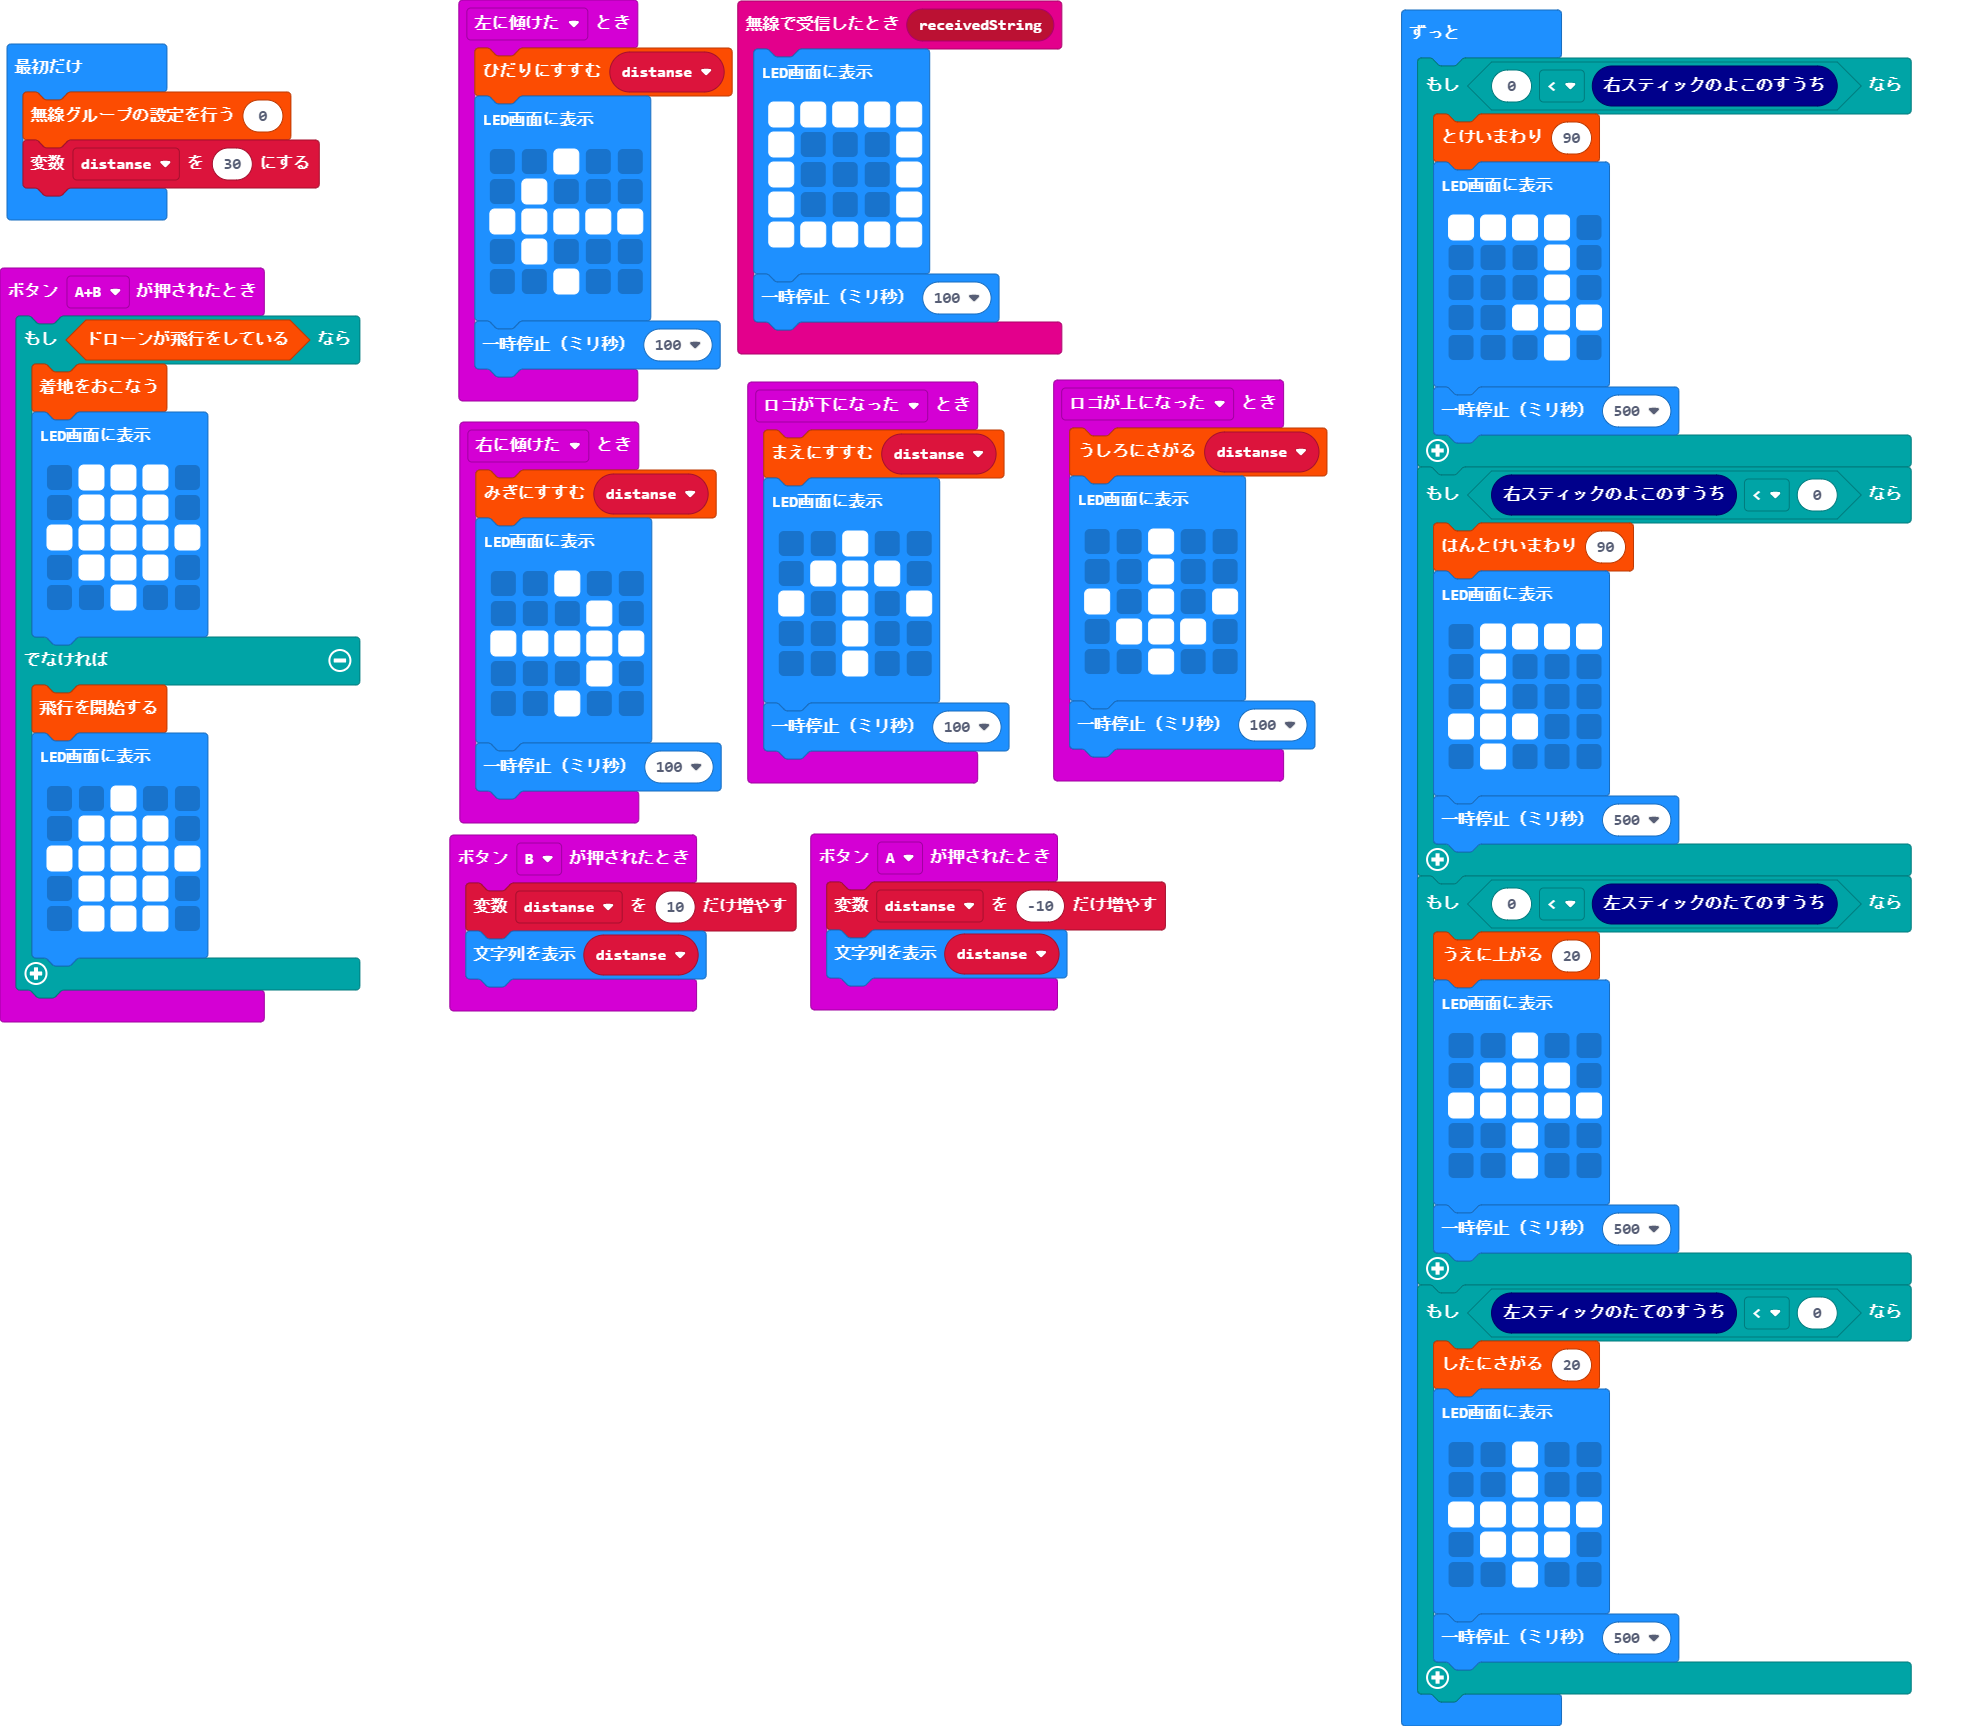
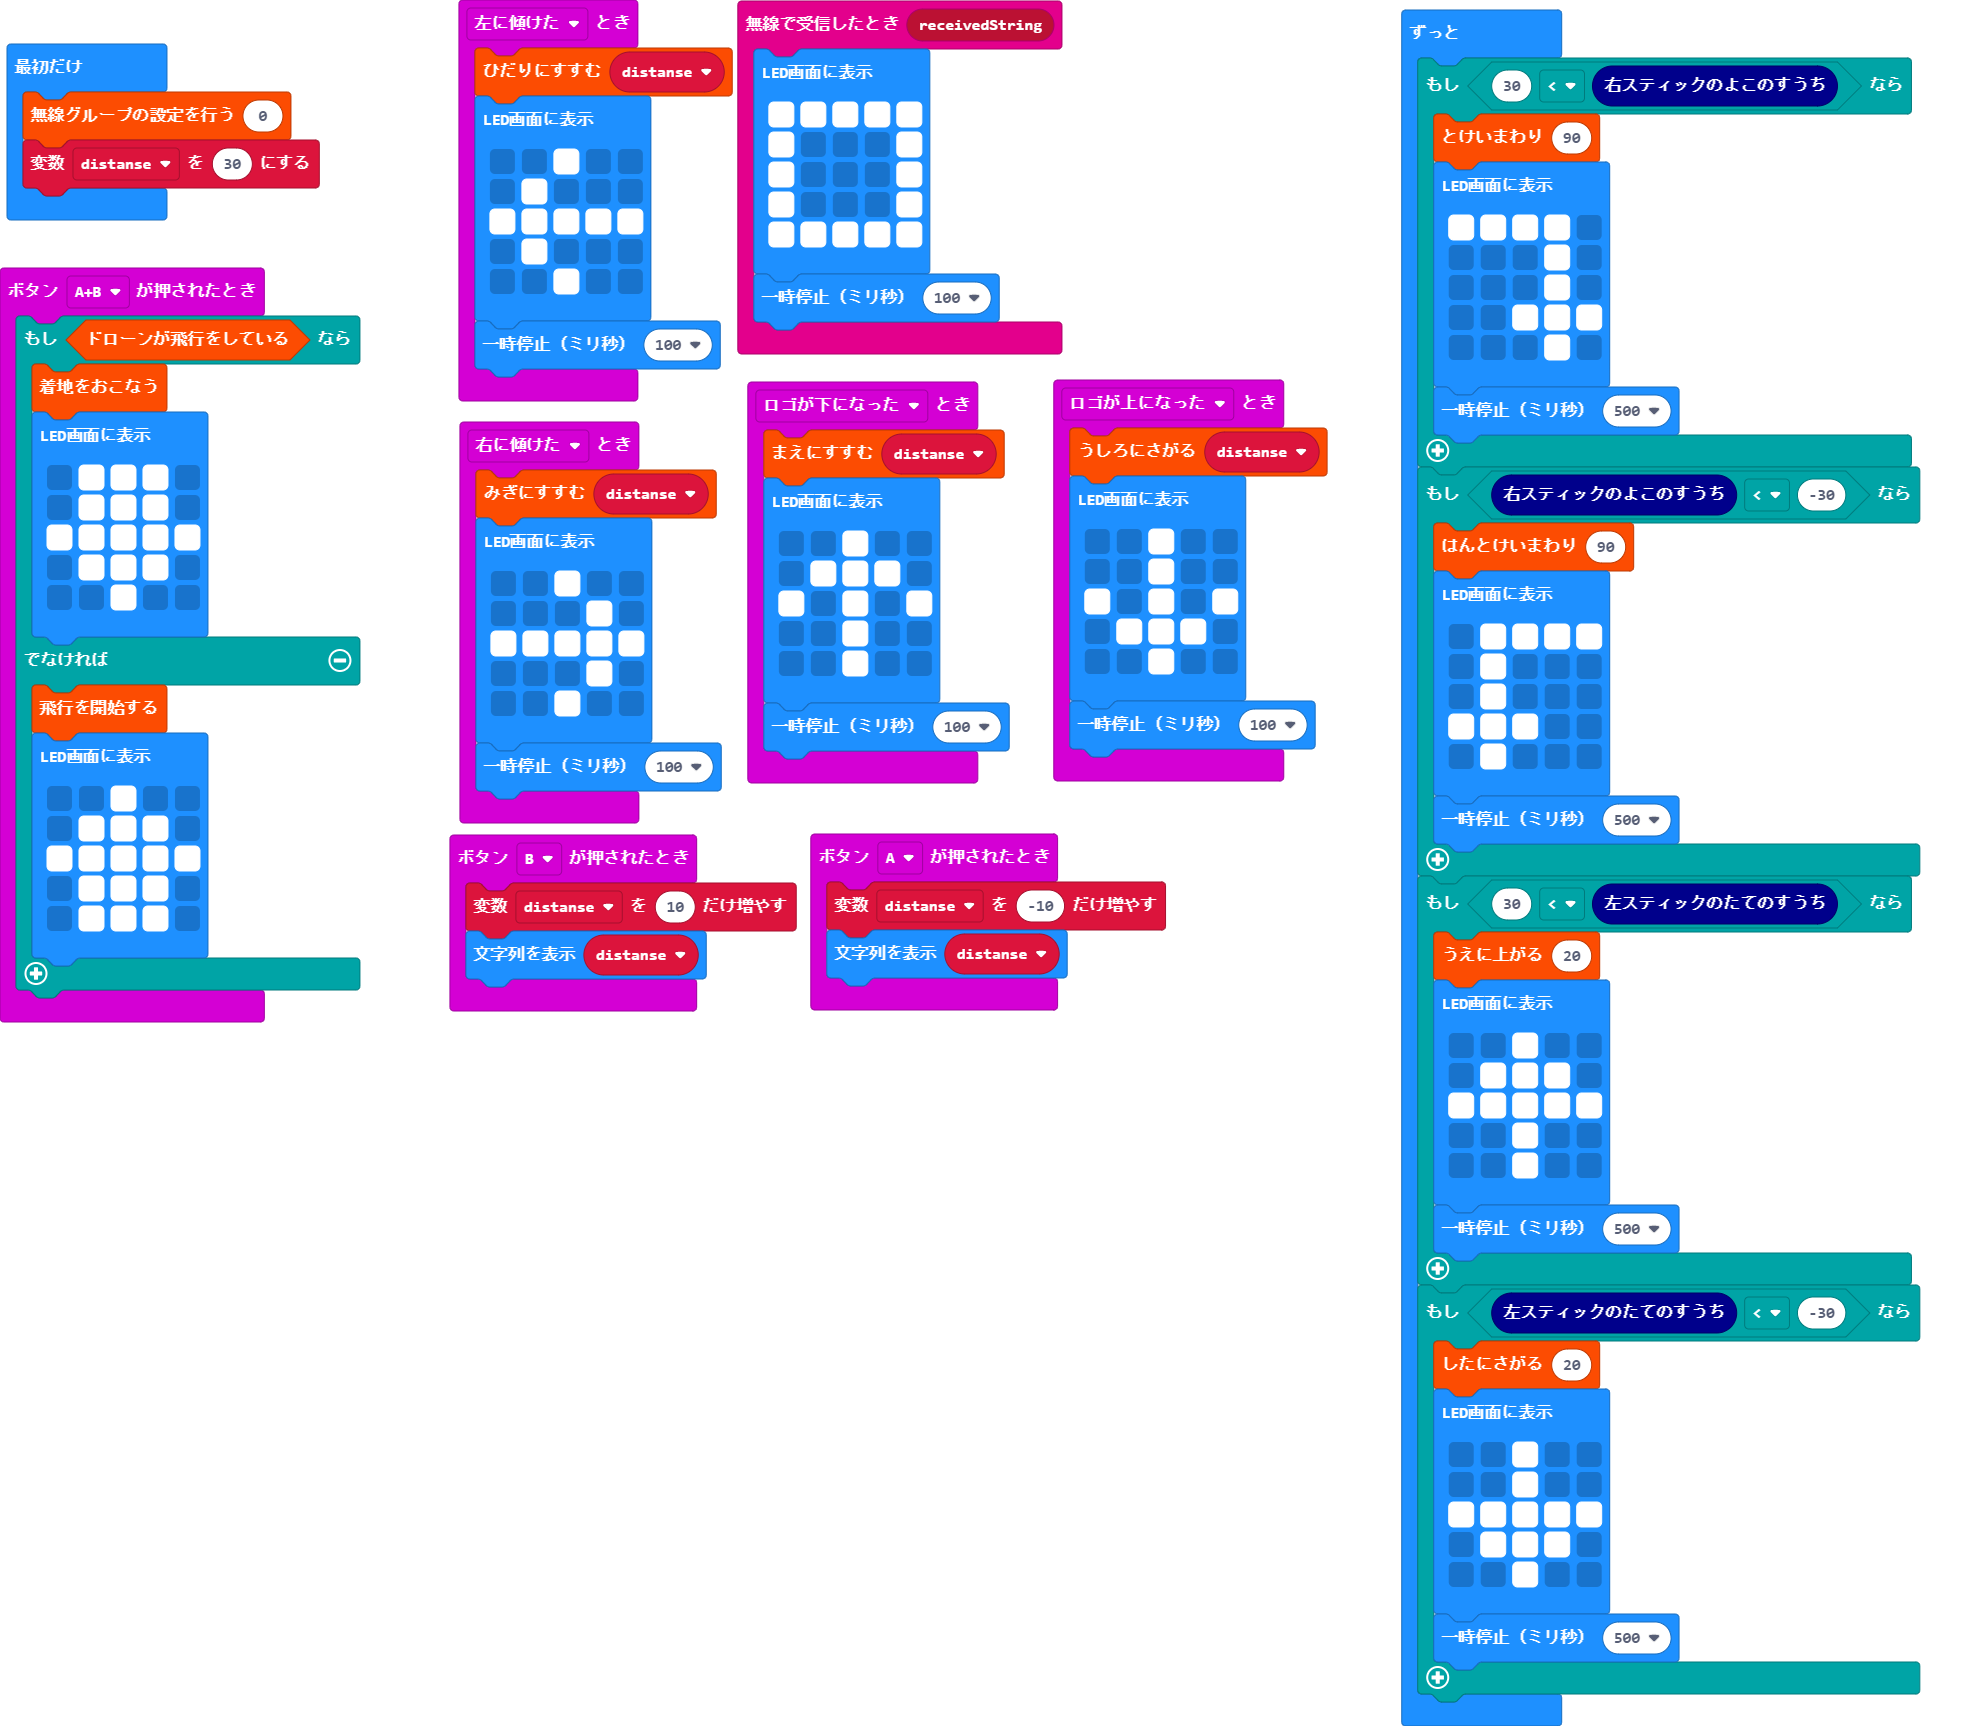
更新 main.blocks, main.ts

diff --git a/main.ts b/main.ts
@@ -85,7 +85,7 @@ let distanse = 0
 Tello.radiosetgroup(0)
 distanse = 30
 basic.forever(function () {
-    if (0 < dronecontroller.getright_X()) {
+    if (30 < dronecontroller.getright_X()) {
         Tello.rotate_cw(90)
         basic.showLeds(`
             # # # # .
@@ -96,7 +96,7 @@ basic.forever(function () {
             `)
         basic.pause(500)
     }
-    if (dronecontroller.getright_X() < 0) {
+    if (dronecontroller.getright_X() < -30) {
         Tello.rotate_ccw(90)
         basic.showLeds(`
             . # # # #
@@ -107,7 +107,7 @@ basic.forever(function () {
             `)
         basic.pause(500)
     }
-    if (0 < dronecontroller.getleft_Y()) {
+    if (30 < dronecontroller.getleft_Y()) {
         Tello.up(20)
         basic.showLeds(`
             . . # . .
@@ -118,7 +118,7 @@ basic.forever(function () {
             `)
         basic.pause(500)
     }
-    if (dronecontroller.getleft_Y() < 0) {
+    if (dronecontroller.getleft_Y() < -30) {
         Tello.down(20)
         basic.showLeds(`
             . . # . .
